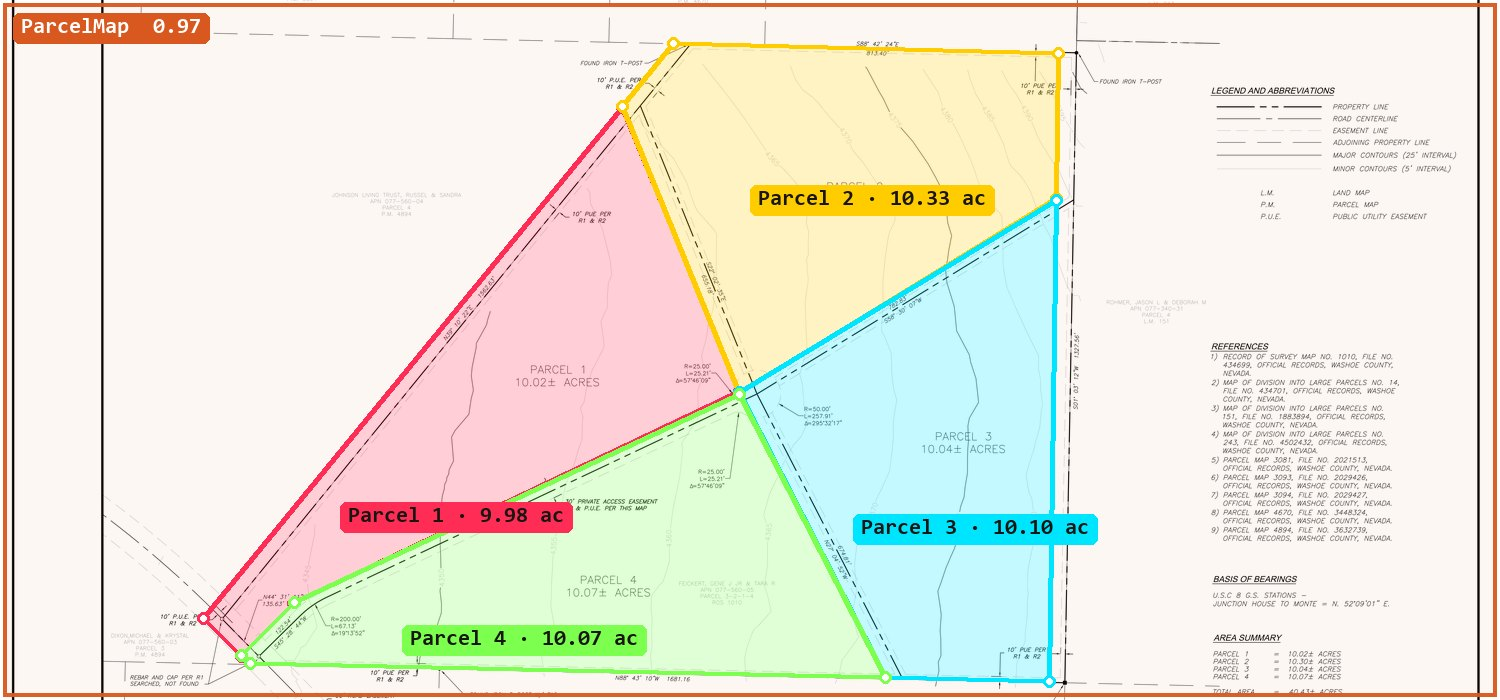
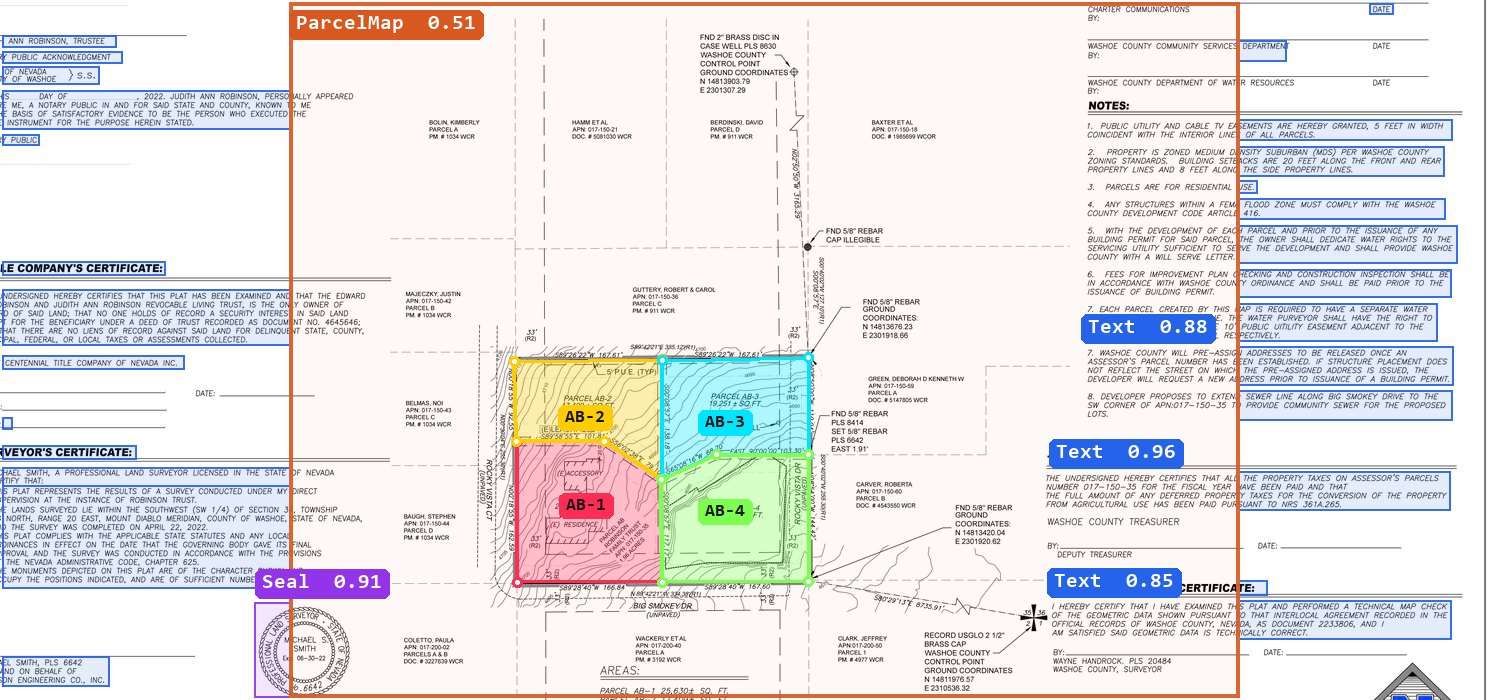
Pipeline images from the four-lot plat: every detected region plus the traced parcels

diff --git a/frontend/src/routes/(marketing)/+page.svelte b/frontend/src/routes/(marketing)/+page.svelte
@@ -156,7 +156,7 @@
         </p>
       </div>
       <div class="story-visual scan-visual">
-        <img src="/images/roam-detect.jpg" alt="A real tentative parcel map: ROAM finds the parcel drawing and traces its four parcels, each labelled with its area" />
+        <img src="/images/roam-detect.jpg" alt="A real survey plat with ROAM's layout detection: the parcel map, text blocks and the surveyor's seal boxed and labelled, and the four parcels traced" />
       </div>
     </div>
 
@@ -238,9 +238,9 @@
       <div class="story-visual map-visual">
         <img
           src="/images/roam-placed.jpg"
-          alt="The same four parcels, turned to north and placed on satellite imagery in Washoe County, Nevada"
+          alt="The same four parcels placed on satellite imagery in Washoe County, Nevada, each in its own colour"
         />
-        <span class="scan-tag">SATELLITE &middot; WASHOE COUNTY, NV &middot; PARCELS 1 TO 4</span>
+        <span class="scan-tag">SATELLITE &middot; WASHOE COUNTY, NV &middot; PARCELS AB-1 TO AB-4</span>
       </div>
     </div>
 
